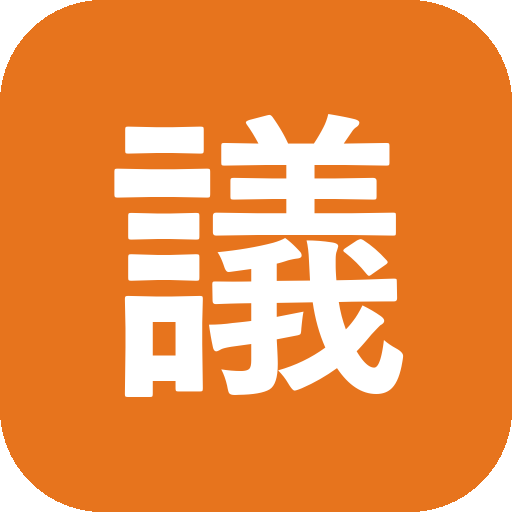
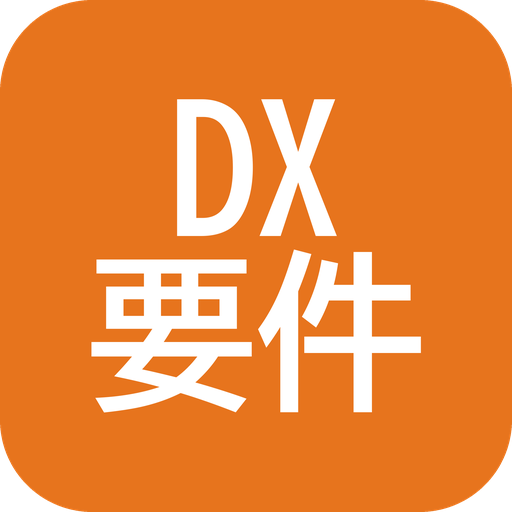
アイコンの文字を「DX要件」にした

diff --git a/sw.js b/sw.js
@@ -2,7 +2,7 @@
 // 画面のファイル（HTML・JS・CSS・アイコン）だけを置いておき、電波が弱くてもアプリが開くようにする。
 // 案件のデータ（GAS とのやり取り）は別のサイトあてなので、ここでは扱わない・保存しない。
 // 画面を更新したら VERSION を上げる。消す置き場は dxy- で始まるものだけ（同じサイトにほかのアプリの置き場があるため）。
-const VERSION = 'dxy-v1';
+const VERSION = 'dxy-v2';
 const SHELL = [
   './',
   './index.html',
